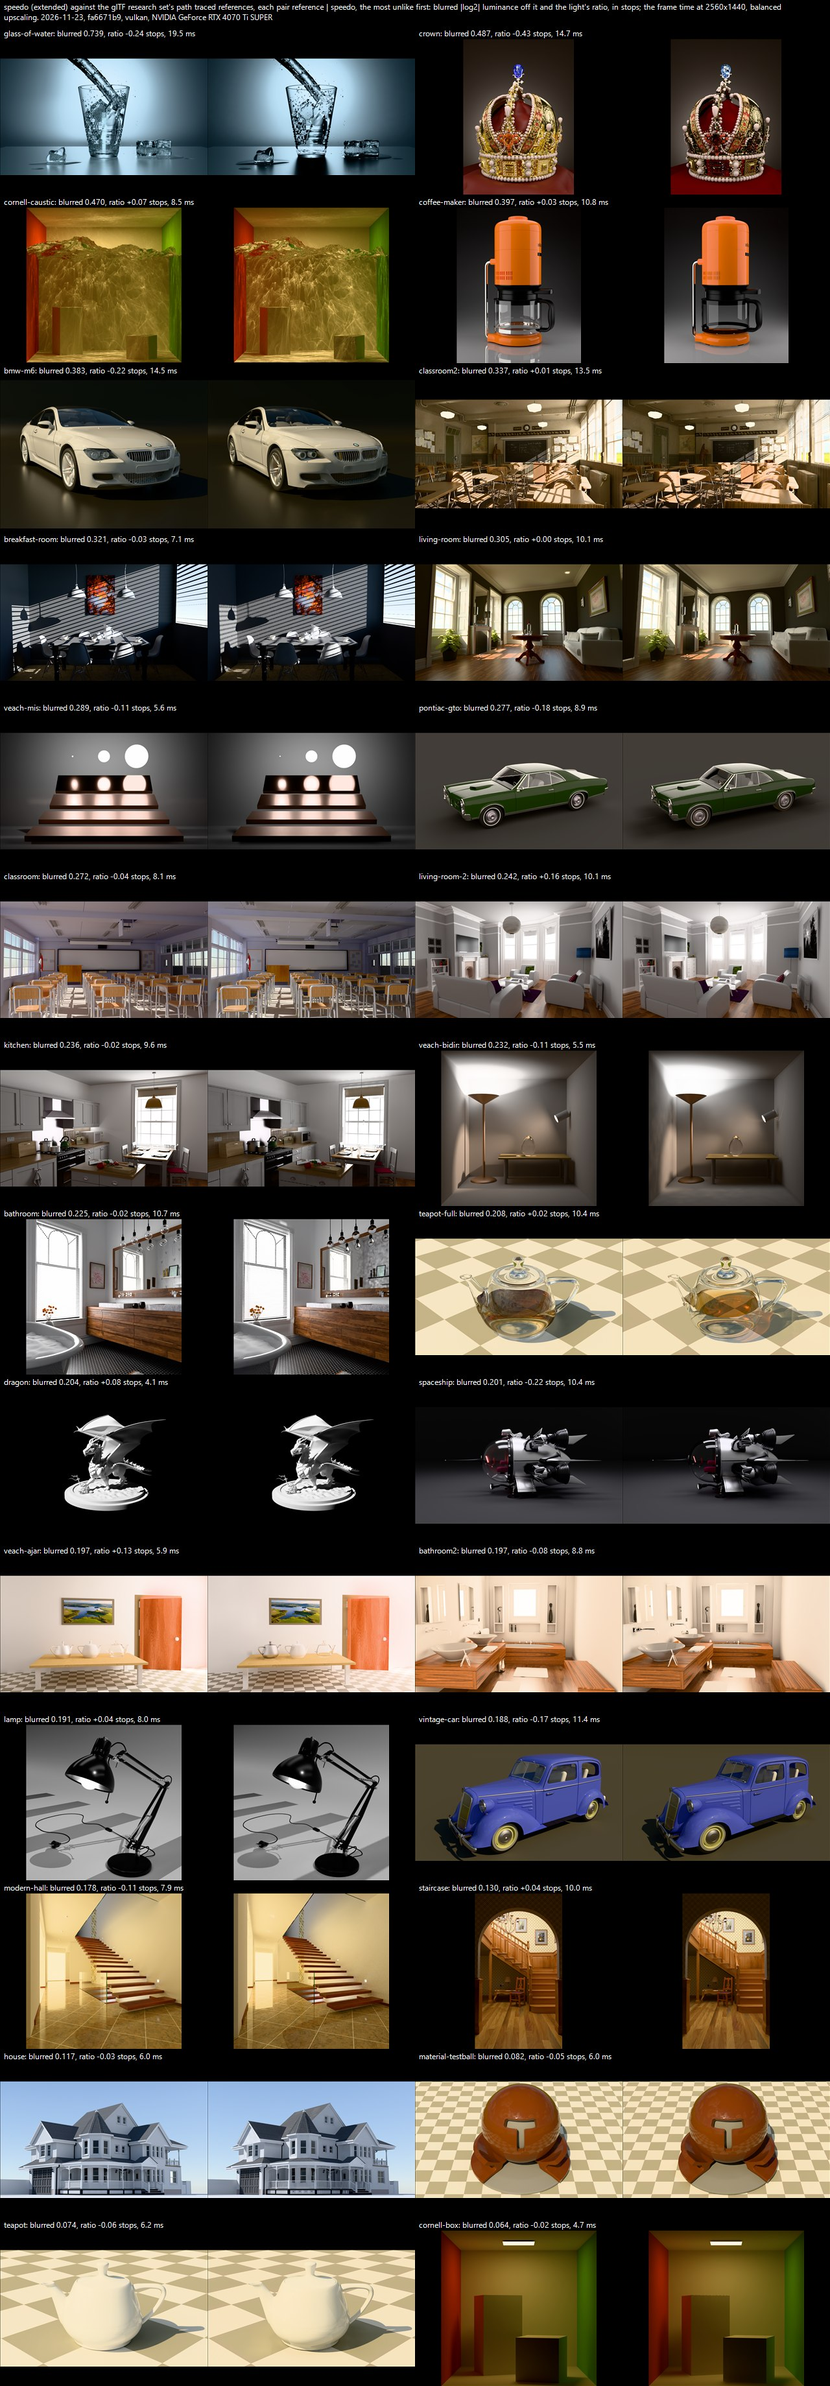
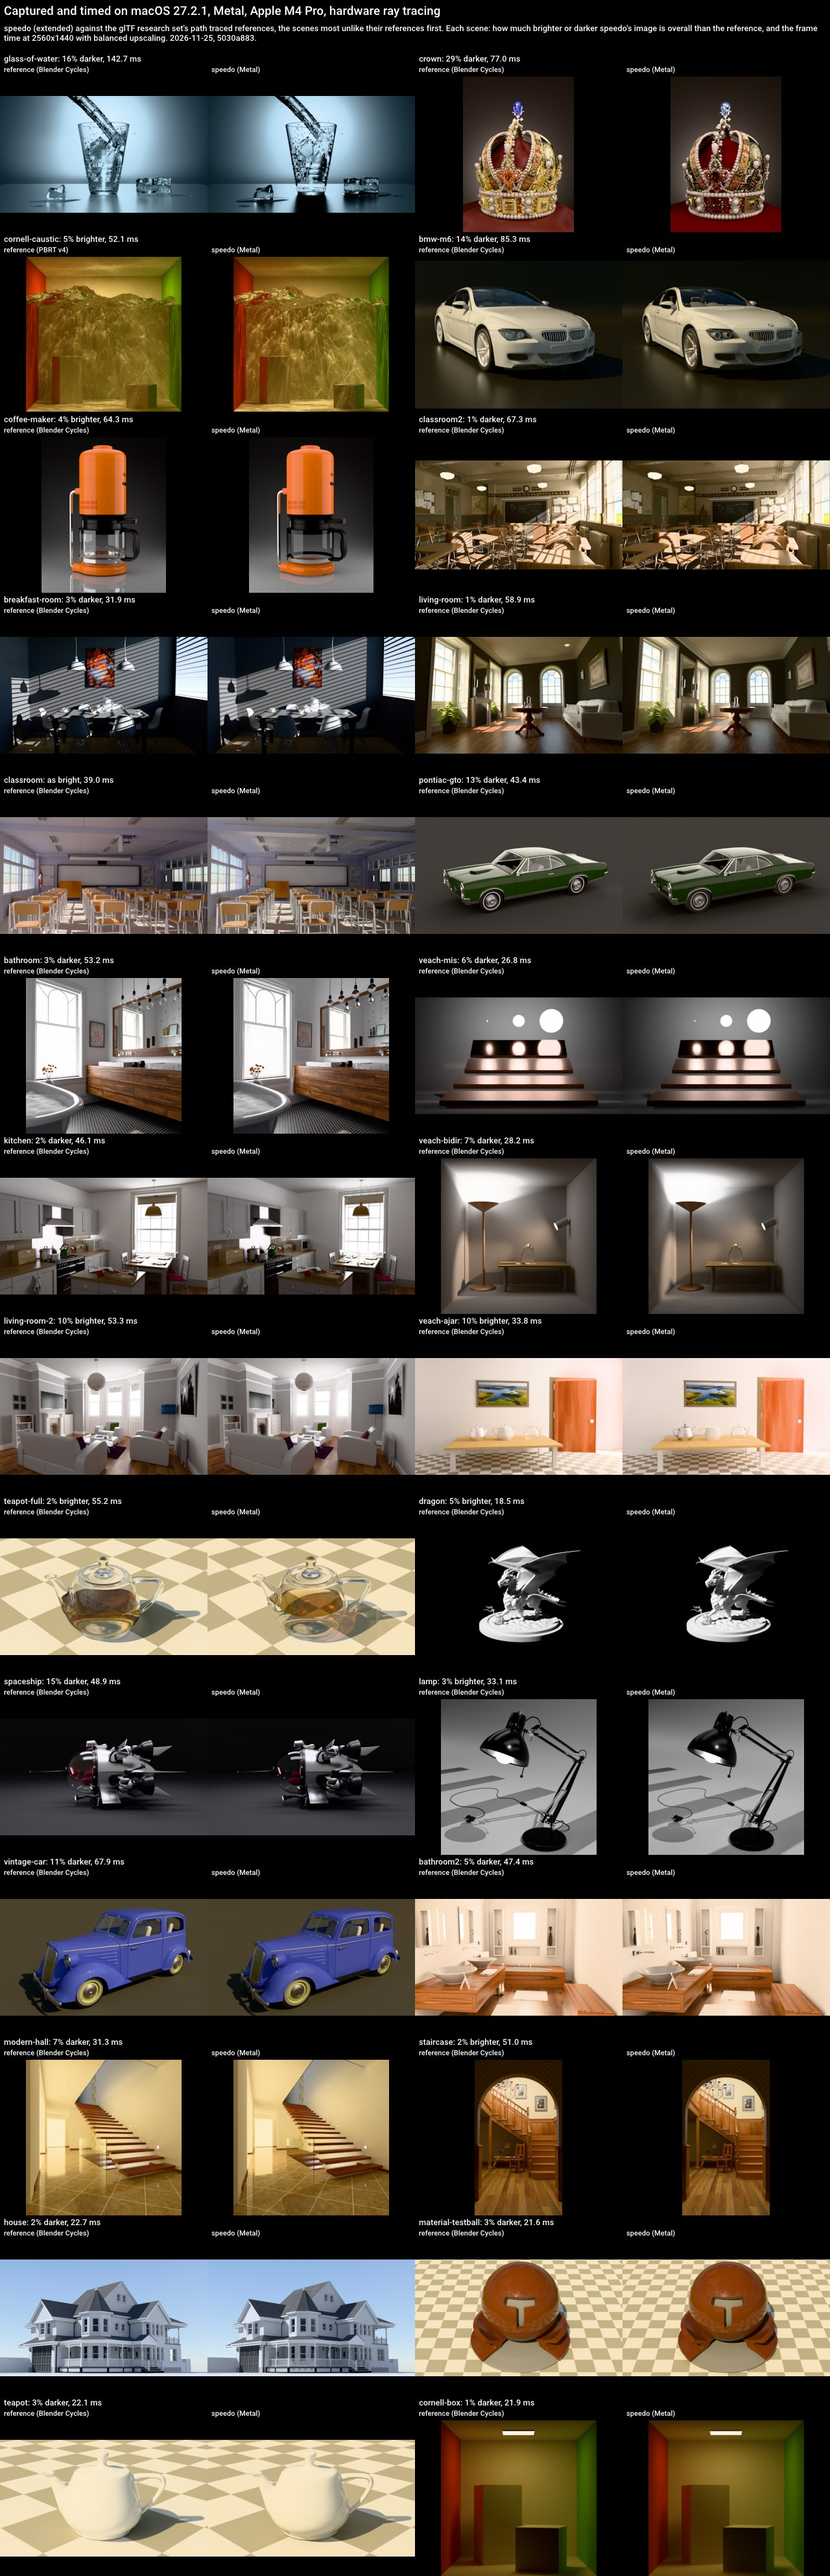
docs: the research set's chart from the M4 Pro (macOS 27.2.1, Metal, hardware ray tracing; it said Vulkan on an RTX 4070 Ti SUPER before), with its measures beside it (docs/research-scenes/overview.md), both linked from the README and the plan. 28 scenes, 18 captured by researchcompare.ps1 and 10 ta

diff --git a/docs/research-scenes/overview.md b/docs/research-scenes/overview.md
@@ -1,0 +1,39 @@
+# Research scenes: measures
+
+speedo (extended) against the glTF research set's path traced references, written by scripts/researchcompare.ps1 with the chart beside it (overview.jpg). Captured and timed on macOS 27.2.1, Metal, Apple M4 Pro, hardware ray tracing; 2026-11-25, commit 5030a883.
+
+- **Blurred** and **sharp**: the mean |log2| difference of the two images' linear luminances, in stops (1 is twice or half the light), blurred over 8 pixels (the lighting's error rather than its noise) and per pixel. The scenes are ordered by the blurred one, the most unlike first.
+- **Light**: log2 of speedo's mean linear luminance over the reference's, in stops: the light overall (+1 twice as bright, -1 half). The chart shows it as a share brighter or darker.
+- **Mean**: the mean channel difference, in levels of 255.
+- **Frame**: the client's median frame time at 2560x1440 with balanced upscaling after the lighting settled, and the costliest passes' gpu times, in ms.
+
+| Scene | Blurred | Sharp | Light | Mean | Frame | Costliest passes |
+|---|---:|---:|---:|---:|---:|---|
+| glass-of-water | 0.743 | 0.923 | -0.250 | 25.59 | 142.71 | Main Transmissive 100.72, Reflection Trace 15.67, GI 4.49 |
+| crown | 0.509 | 0.728 | -0.498 | 16.43 | 77.03 | Main Transmissive 25.61, GI 15.55, Reflection Trace 9.66 |
+| cornell-caustic | 0.473 | 0.476 | +0.075 | 14.81 | 52.06 | Main Transmissive 28.05, GI 12.84, Main Visibility 1.93 |
+| bmw-m6 | 0.394 | 0.429 | -0.217 | 7.53 | 85.31 | Reflection Trace 26.63, Main Transmissive 23.49, Main Visibility 7.03 |
+| coffee-maker | 0.354 | 0.405 | +0.059 | 10.08 | 64.30 | Main Transmissive 28.91, Reflection Trace 7.58, GI 5.60 |
+| classroom2 | 0.331 | 0.482 | -0.015 | 14.17 | 67.28 | Reflection Trace 18.81, GI 11.99, Main Visibility 8.84 |
+| breakfast-room | 0.319 | 0.531 | -0.046 | 8.26 | 31.93 | GI 12.19, Reflection Trace 5.19, GI Sides 3.18 |
+| living-room | 0.292 | 0.358 | -0.015 | 9.91 | 58.89 | Reflection Trace 16.74, Main Transmissive 11.70, GI 10.47 |
+| classroom | 0.272 | 0.401 | +0.006 | 12.79 | 39.02 | Reflection Trace 16.15, GI Sides 3.48, Main Visibility 3.44 |
+| pontiac-gto | 0.253 | 0.282 | -0.197 | 5.29 | 43.36 | Main Transmissive 19.10, Reflection Trace 5.96, GI Sides 3.94 |
+| bathroom | 0.242 | 0.378 | -0.050 | 11.62 | 53.22 | Reflection Trace 18.30, GI 7.78, Main Transmissive 4.96 |
+| veach-mis | 0.242 | 0.268 | -0.086 | 6.15 | 26.77 | Reflection Trace 6.64, GI 3.42, Main Visibility 3.17 |
+| kitchen | 0.226 | 0.302 | -0.034 | 8.27 | 46.10 | Reflection Trace 10.00, GI 9.89, Main Transmissive 6.97 |
+| veach-bidir | 0.226 | 0.243 | -0.107 | 6.44 | 28.18 | GI 14.97, Main Transmissive 3.06, Main Visibility 2.11 |
+| living-room-2 | 0.220 | 0.253 | +0.133 | 9.06 | 53.33 | Reflection Trace 17.89, GI 10.18, Main Visibility 4.18 |
+| veach-ajar | 0.213 | 0.224 | +0.142 | 12.26 | 33.76 | Main Transmissive 14.47, GI 3.55, Main Visibility 3.28 |
+| teapot-full | 0.206 | 0.250 | +0.026 | 9.92 | 55.16 | Main Transmissive 39.02, Main Visibility 3.26, Shadow Classify 2.42 |
+| dragon | 0.204 | 0.352 | +0.076 | 2.09 | 18.52 | GI 11.18, GI Sides 1.87, Upscale Accumulate 1.08 |
+| spaceship | 0.194 | 0.217 | -0.233 | 3.65 | 48.89 | Main Transmissive 13.13, GI 8.26, Reflection Trace 6.67 |
+| lamp | 0.185 | 0.228 | +0.050 | 6.86 | 33.13 | Main Transmissive 4.33, Main Visibility 4.23, Reflection Trace 3.92 |
+| vintage-car | 0.179 | 0.225 | -0.163 | 5.52 | 67.85 | Main Transmissive 35.87, Reflection Trace 6.84, Main Visibility 4.52 |
+| bathroom2 | 0.171 | 0.209 | -0.074 | 8.77 | 47.41 | Reflection Trace 10.72, GI 8.38, Main Transmissive 8.08 |
+| modern-hall | 0.169 | 0.199 | -0.103 | 7.04 | 31.29 | Reflection Trace 6.11, GI 5.46, Main Visibility 3.91 |
+| staircase | 0.122 | 0.185 | +0.025 | 4.90 | 50.96 | Reflection Trace 13.77, GI 11.61, Main Transmissive 6.36 |
+| house | 0.114 | 0.183 | -0.023 | 6.37 | 22.75 | Main Transmissive 5.06, GI 4.13, GI Sides 2.77 |
+| material-testball | 0.078 | 0.091 | -0.043 | 3.47 | 21.61 | GI Sides 3.22, Main Visibility 3.18, GI 3.13 |
+| teapot | 0.077 | 0.083 | -0.051 | 4.83 | 22.09 | GI Sides 3.85, Main Visibility 3.40, Reflection Trace 2.80 |
+| cornell-box | 0.058 | 0.066 | -0.011 | 1.12 | 21.89 | GI 14.03, Main Visibility 1.90, GI Sides 1.87 |

diff --git a/docs/research-scenes-plan.md b/docs/research-scenes-plan.md
@@ -20,9 +20,11 @@ Two scenes are also held by checks in `scripts/visualtest.ps1`, which CI runs on
 
 ## Where it stands
 
-![Every scene of the set, its reference beside speedo's render, the most unlike first, each labelled with its blurred measure, its light's ratio and its frame time](research-scenes/overview.jpg)
+![Every scene of the set, its reference beside speedo's render, the most unlike first, each labelled with how much brighter or darker speedo's image is and its frame time, under a line naming the platform, graphics api, gpu and ray tracing they were made with](research-scenes/overview.jpg)
 
-Every scene is closer to its reference than at the baseline. glass-of-water, the worst at the baseline, is the one scene over 60 Hz (its glass, water and ice in Main Transmissive). Some scenes are now slightly brighter than their references, and vintage-car's single sheet windows refract as solids under the set's conditions.
+The measures in full, with the same platform line: [research-scenes/overview.md](research-scenes/overview.md).
+
+Every scene is closer to its reference than at the baseline. glass-of-water is still the least like its reference and the slowest (its glass, water and ice in Main Transmissive); frame times depend on the gpu, so the chart's are those of the platform it names. Some scenes are now slightly brighter than their references, and vintage-car's single sheet windows refract as solids under the set's conditions.
 
 ## How it is judged (every step)
 

diff --git a/README.md b/README.md
@@ -26,7 +26,7 @@ speedo is a real-time renderer that produces physically based images at interact
 
 <!-- made with the profile client on Metal with hardware ray queries (Apple M4 Pro), each scene as the client opens it (the file's camera, its conversion.yaml's environment and exposure, PBR Neutral): SPEEDO_GRAPHICS_API=metal SPEEDO_RAY_QUERY=1 SPEEDO_HEADLESS=1 SPEEDO_UI=0 SPEEDO_REPEATABLE=1 SPEEDO_TIME_FRAME_SECONDS=0.0166667 SPEEDO_MOTION_BLUR=0 SPEEDO_GRAIN=0 SPEEDO_UPSCALING=native SPEEDO_AUTOLOAD_EXIT=1500 SPEEDO_CAPTURE=<file.bmp>, SPEEDO_WINDOW_SIZE twice the reference render's size (2560x1440; classroom2 2880x1514, bathroom 2048x2048), scaled to 1600 wide. Models under test-assets/ (resources/): gltf-research-scenes/scenes/gltf_research_scenes_glb/gltf_research_scenes/scenes/<scene>/gltf/<scene>_extended.glb (glass_of_water_extended.glb, classroom2.glb, spaceship_extended.glb, pontiac_gto_extended.glb, bathroom_extended.glb). -->
 
-The renders against the set's path traced references, every scene: [docs/research-scenes/overview.jpg](docs/research-scenes/overview.jpg) (docs/research-scenes-plan.md).
+Every scene of the set against its path traced reference, with the platform it was made on: [the chart](docs/research-scenes/overview.jpg) and [its measures](docs/research-scenes/overview.md) (docs/research-scenes-plan.md).
 
 ## Features
 
